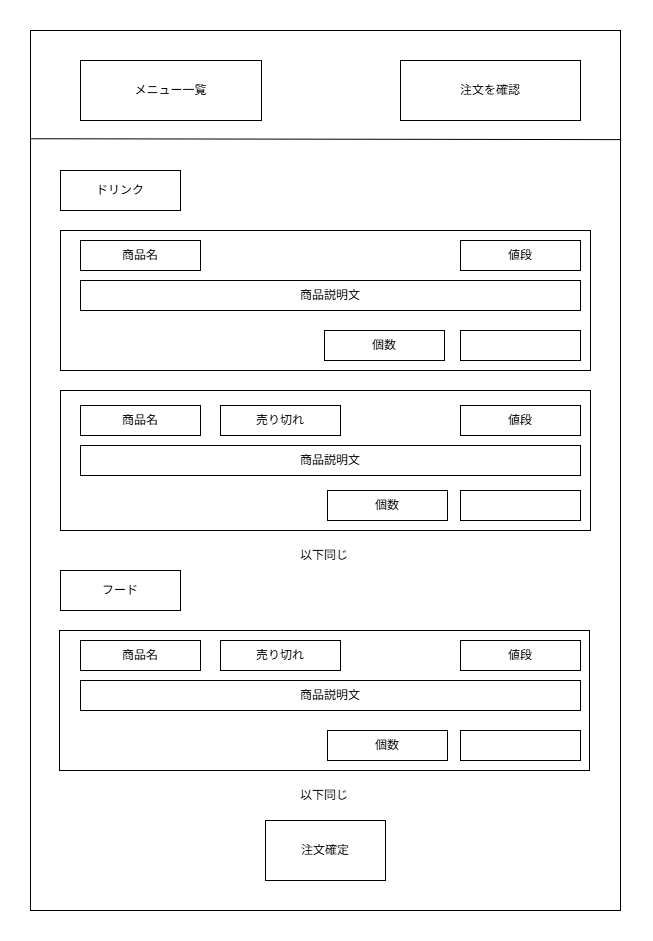
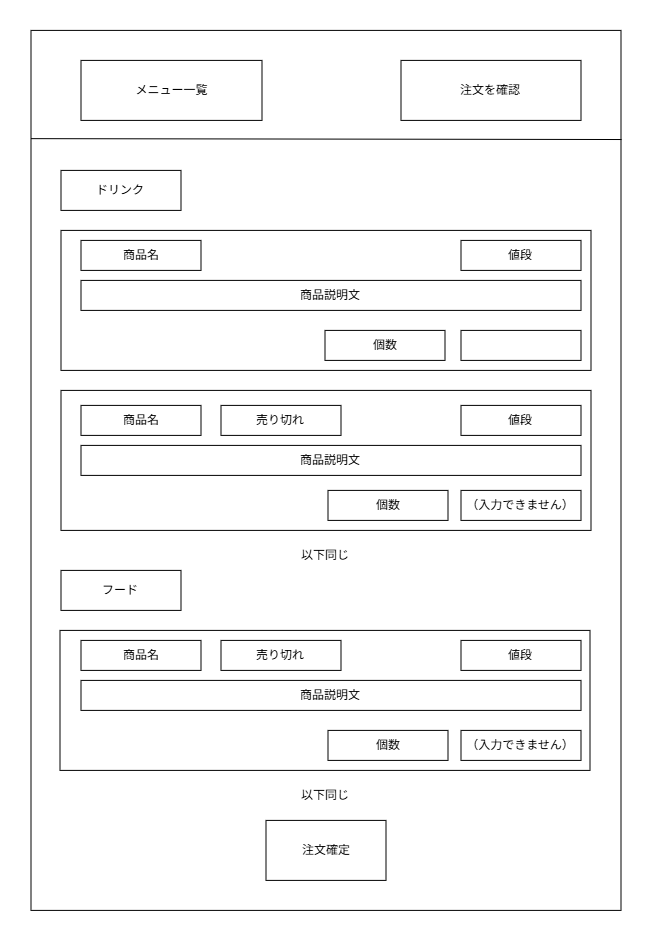
tutorial13-3: モバイルオーダーアプリ画面設計作成

diff --git a/docs/13-3/cafe-screen-list.md b/docs/13-3/cafe-screen-list.md
@@ -2,7 +2,9 @@
 
 | ID | 画面名 | 役割 | 主な利用者 |
 |:---|:-------|:----|:-----------|
-|SC-01|メニュー一覧画面|商品の名前と値段と説明の一覧を見せる（最初に開く画面）|ユーザー|
-|SC-02|注文確認画面|注文済の商品を見せる|ユーザー|
-|SC-03|注文一覧画面|注文の一覧を見せる（最初に開く画面）|店員|
-|SC-04|注文詳細画面|注文の内容を見せる|店員|
+|SC-01|メニュー一覧画面|商品の名前と値段と説明の一覧を見せる。注文数を入力する（最初に開く画面）|ユーザー|
+|SC-02|支払い画面|外部サービスで支払いをして結果を受け取る|ユーザー|
+|SC-03|注文完了画面|注文番号を見せる|ユーザー|
+|SC-04|注文確認画面|注文済の商品を見せる|ユーザー|
+|SC-05|注文一覧画面|注文の一覧を見せる（最初に開く画面）|店員|
+|SC-06|注文詳細画面|注文の内容を見せる。受け渡し済にする|店員|

diff --git a/docs/13-3/cafe-input-check.md b/docs/13-3/cafe-input-check.md
@@ -1,0 +1,10 @@
+# モバイルオーダーアプリ 入力チェック表
+
+| 画面 | 項目 | 必須 | 文字数・桁数 | 形式・値の範囲 | 他の項目との関係 |
+|:-----|:----|:-----|:------------|:-------------|:----------------|
+|メニュー一覧画面|個数|任意|2桁以内|0~10の整数|-|
+|注文一覧画面|注文番号|任意|6桁以内|半角数字のみ|-|
+
+個人で注文する個数はほぼ1~2の想定ですが、最大10まで幅を持たせました。
+注文番号は仕様書からは日々の注文数がどのくらいかわからない為、口頭で伝えやすい長さにしました。
+どちらも仕様書には記載されていないので確認事項リストにも記載します。

diff --git a/docs/13-2/cafe-questions.md b/docs/13-2/cafe-questions.md
@@ -9,3 +9,5 @@
 |Q-05|支払方法はクレジットカードや電子マネー等がありますが、どのような方法を想定していますでしょうか|F-03|未確認|
 |Q-06|注文の管理方法は注文に番号を付与し管理する想定ですが、問題ございませんでしょうか|F-04・F-06|未確認|
 |Q-07|支払い画面は外部の決済サービスの画面を利用する想定ですが、問題ございませんでしょうか|F-03|未確認|
+|Q-08|注文数は10個までとする想定ですが、問題ございませんでしょうか|F-02|未確認|
+|Q-09|注文番号は6桁の数字とする想定ですが、問題ございませんでしょうか|F-04・F-06・F-07|未確認|

diff --git a/docs/13-3/cafe-message.md b/docs/13-3/cafe-message.md
@@ -1,0 +1,9 @@
+# モバイルオーダーアプリ メッセージ一覧
+
+| 画面 | でる場面 | 区分 | メッセージ |
+|:----|:---------|:----|:-----------|
+|メニュー一覧画面|個数が0~10の範囲外で注文確定ボタンを押した|エラー|個数は0~10の数字を入力してください|
+|支払い画面|支払いが出来なかった|エラー|お支払いができませんでした。再度ご確認ください。|
+|注文完了画面|支払いが完了した|完了|ご注文ありがとうございました。注文確認画面にてご確認ください|
+|注文一覧画面|該当する注文が無い|エラー|該当する注文はありません
+|

diff --git a/docs/13-3/cafe-screen-items.md b/docs/13-3/cafe-screen-items.md
@@ -4,11 +4,10 @@
 |:------|:-----|:-----|:----|
 |画面見出し|表示|-|「メニュー一覧」|
 |注文を確認|リンク|-|押すと注文確認画面に移動する|
-|商品見出し|表示|-|「ドリンク」|
+|商品見出し|表示|-|「ドリンク」「フード」|
 |商品名|表示|-|商品の名前|
 |値段|表示|-|商品の値段|
 |商品説明文|表示|-|商品の説明文|
 |個数|入力（1行）|任意|注文数|
 |売り切れ|表示|-|売り切れている場合に表示される|
-|商品見出し|表示|-|「フード」|
 |注文確定|ボタン|-|押すと支払い画面に移動する|
